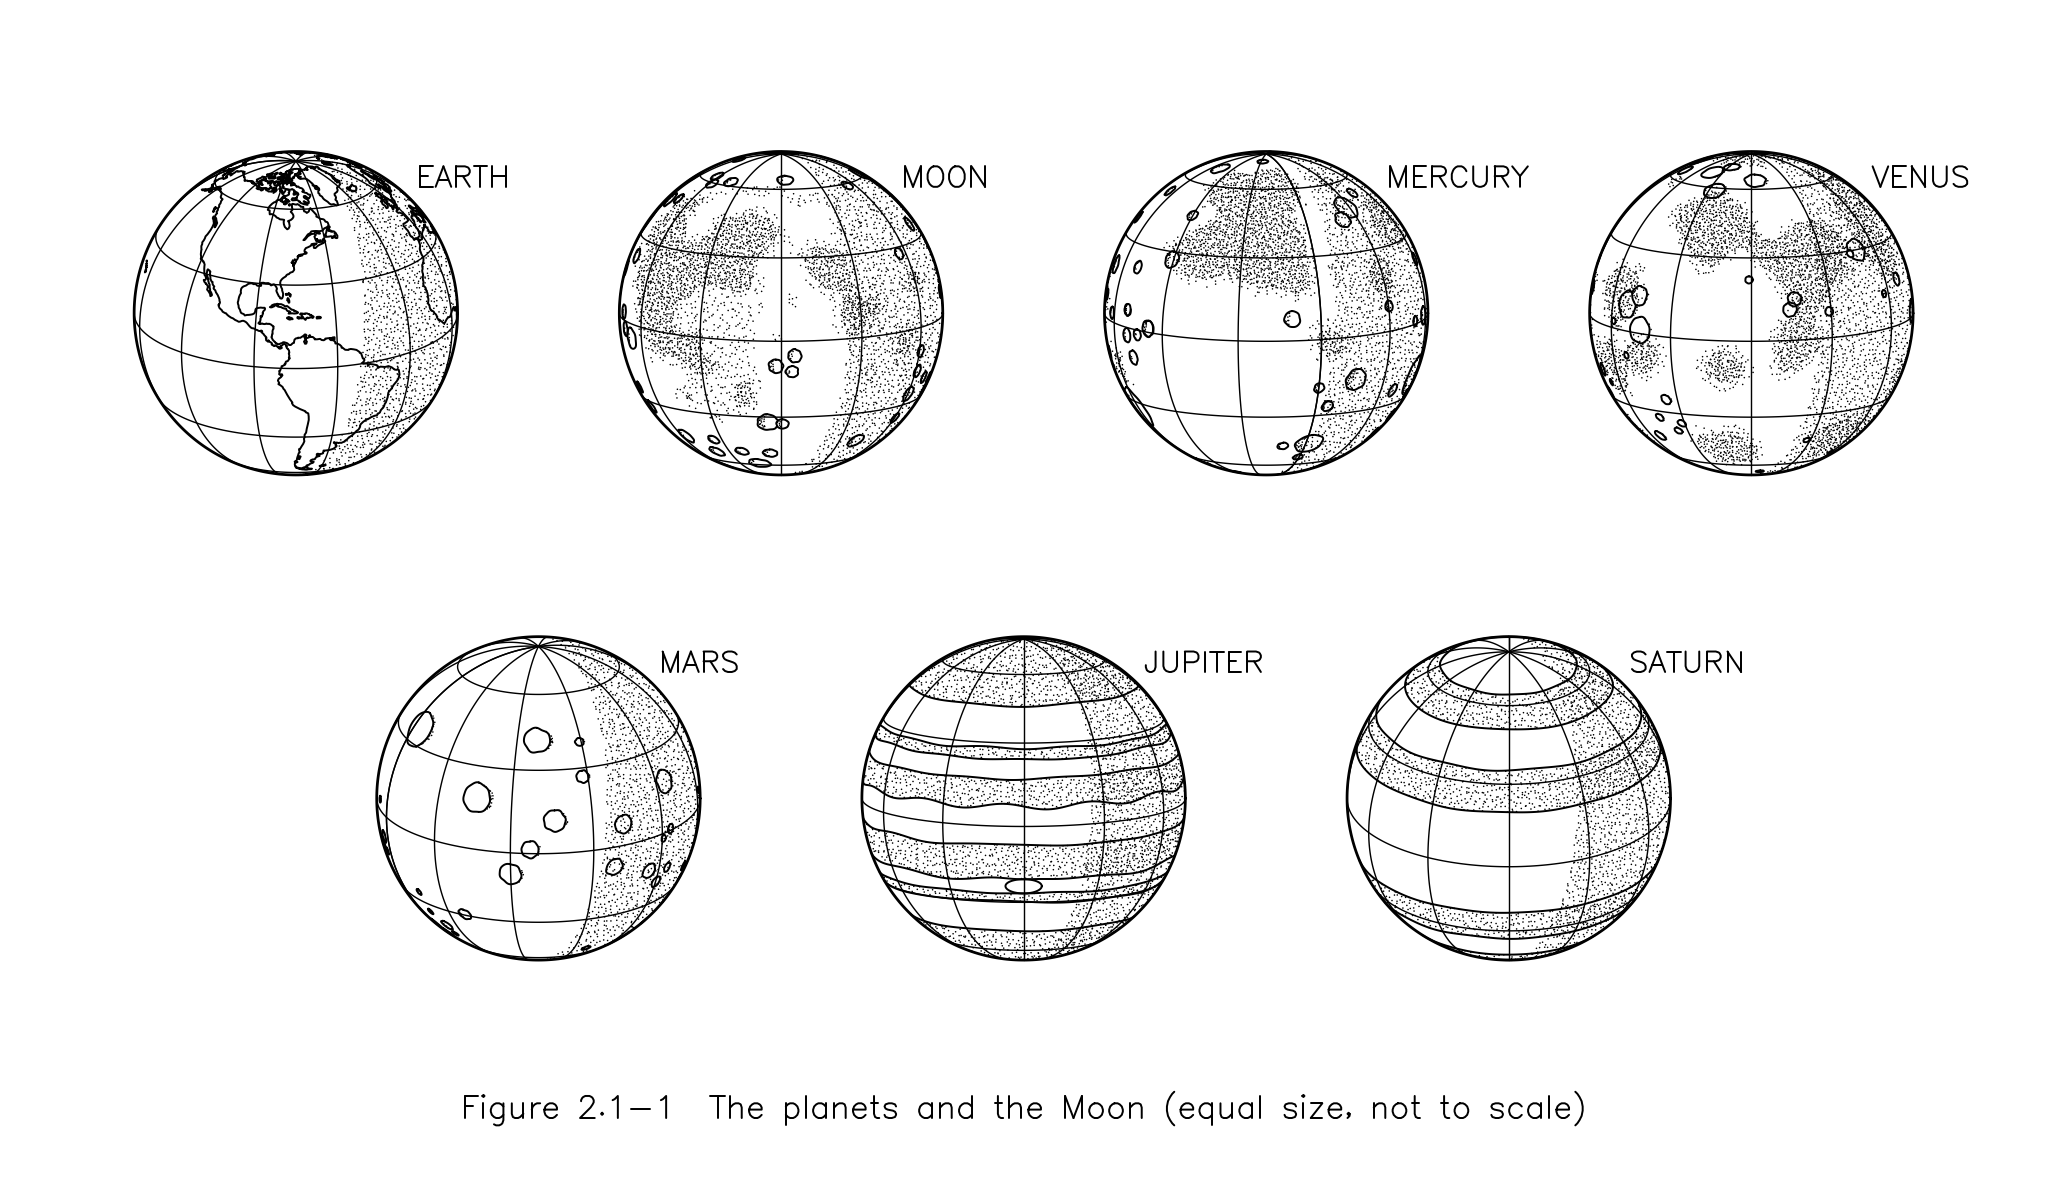
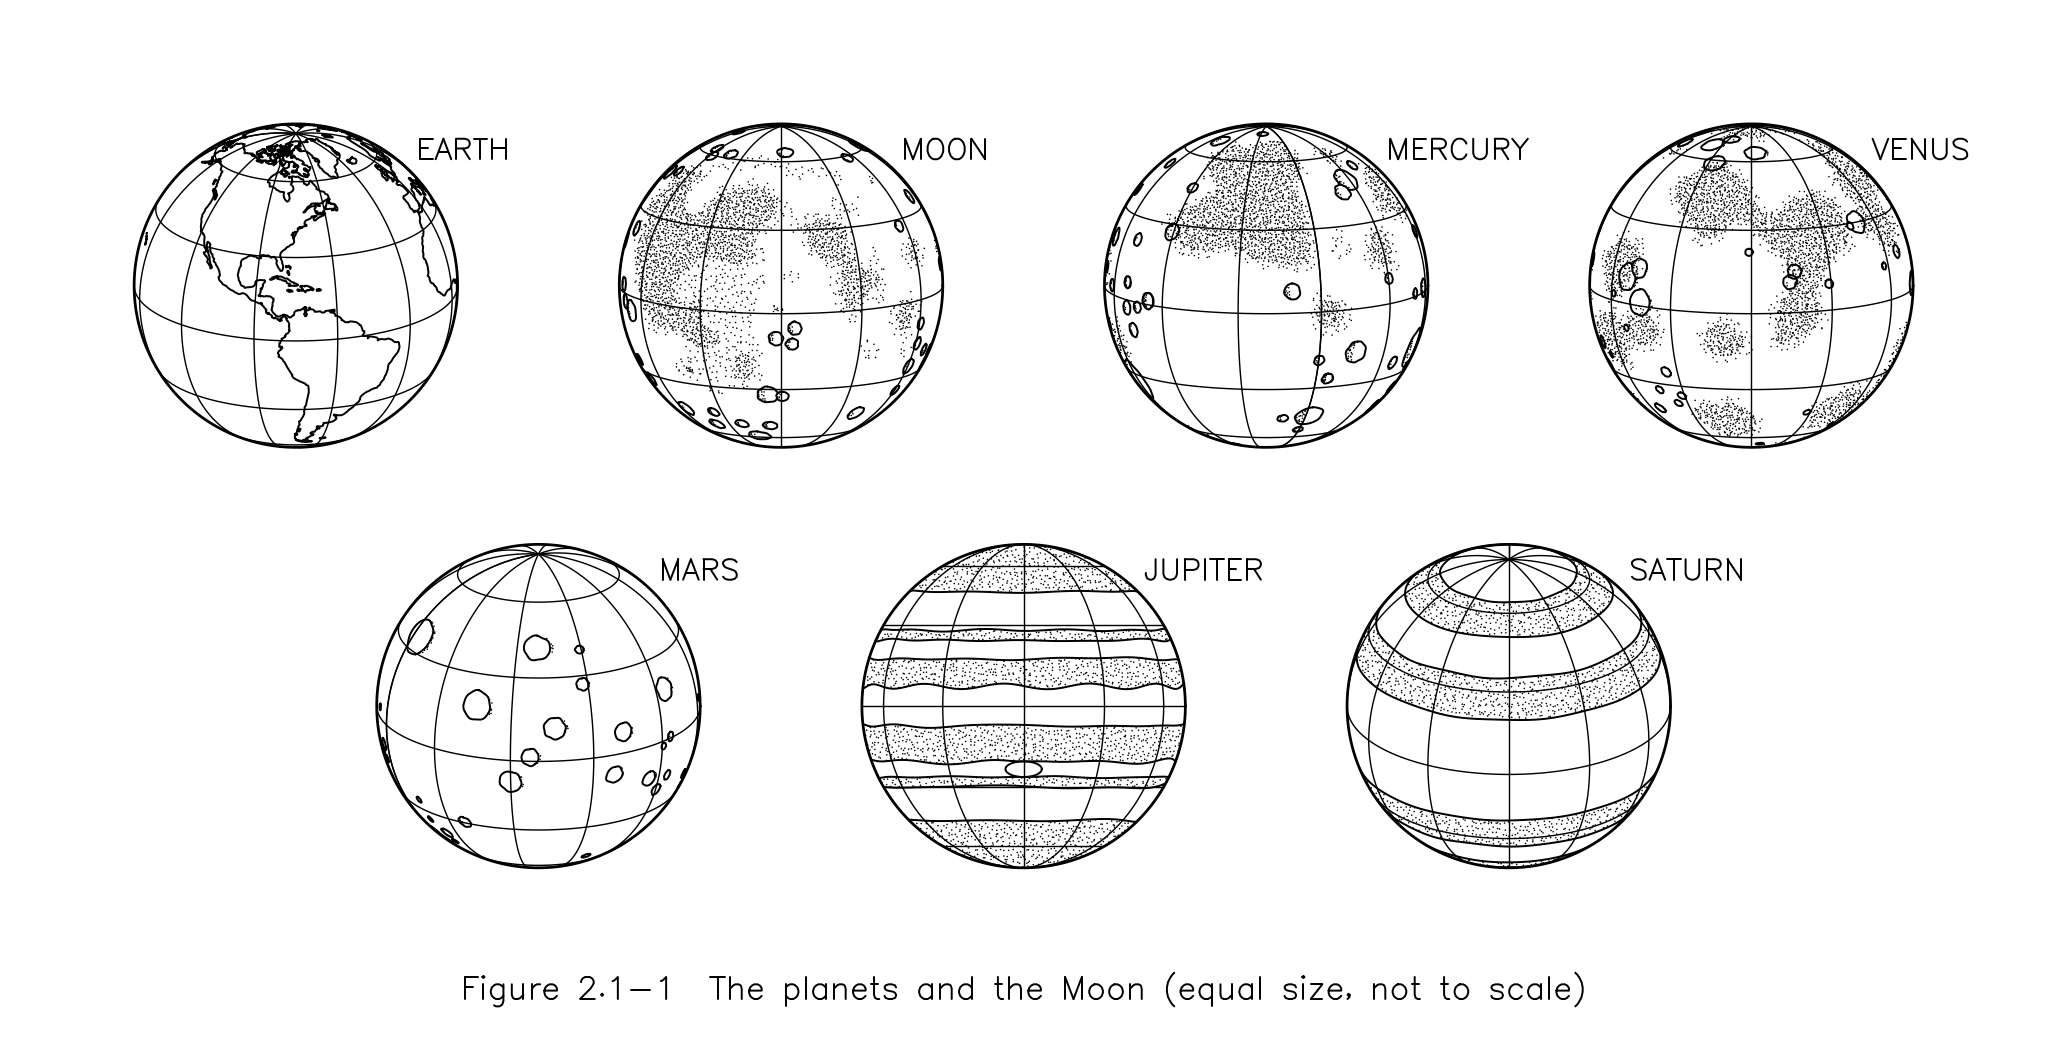
KAN-27: Clearer globes sheet
No night-side stipple, so surface stipple reads on its own; Jupiter untilted to centre the Great Red Spot; rows closer.

Claude-Session: https://claude.ai/code/session_017XkWHMPimWSsPuxy2hiZjo

diff --git a/examples/diagrams_gallery.py b/examples/diagrams_gallery.py
@@ -77,18 +77,19 @@ def globes_plate() -> ink.Plate:
         ("Mercury", 160, 10),
         ("Venus", 0, 10),
         ("Mars", -110, 20),
-        ("Jupiter", 0, 10),
+        ("Jupiter", 0, 0),
         ("Saturn", 0, 25),
     ]
-    plate = ink.Plate("Figure 2.1-1  The planets and the Moon (equal size, not to scale)", page=(260, 150))
+    plate = ink.Plate("Figure 2.1-1  The planets and the Moon (equal size, not to scale)", page=(260, 135))
     for k, (name, spin, tilt) in enumerate(bodies):
         row, col = divmod(k, 4)
         x = (col + (0.5 if row else 0)) * 3.0
         plate.body(
             1.0,
-            (x, -row * 3.0),
+            (x, -row * 2.6),
             body=name,
             surface=True,
+            sun=None,
             spin=np.radians(spin),
             tilt=np.radians(tilt),
             label=name.upper(),
